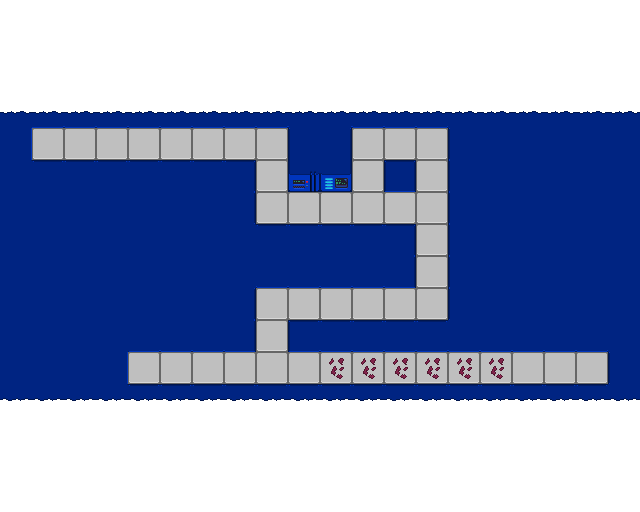
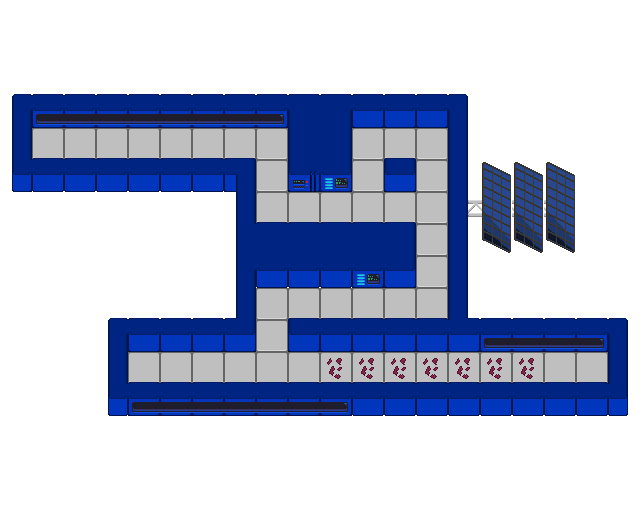
Add parallax background, update tileset

diff --git a/main.js b/main.js
@@ -10,7 +10,10 @@ const IMAGE_FILE_NAMES = {
     alienDown: 'img/alien-down.png',
     alienLeft: 'img/alien-left.png',
     alienRight: 'img/alien-right.png',
-    spaceBackground: 'img/Space_Background_3.png',
+    backgroundStars: 'img/background/stars.png',
+    backgroundNebula: 'img/background/nebula.png',
+    backgroundDust: 'img/background/dust.png',
+    backgroundPlanet: 'img/background/planet.png',
     spriteSheet: 'img/spritesheet.png',
 };
 
@@ -269,7 +272,12 @@ function setup() {
     canvas = new Canvas('canvas');
 
     for (const key in IMAGE_FILE_NAMES) {
-        IMAGES[key] = loadImage(IMAGE_FILE_NAMES[key]);
+        const fileName = IMAGE_FILE_NAMES[key];
+        if (fileName.includes('/background/')) {
+            IMAGES[key] = canvas.loadPattern(fileName);
+        } else {
+            IMAGES[key] = loadImage(fileName);
+        }
     }
 
     level = loadLevel(player, hammer, 0);
@@ -300,7 +308,11 @@ let nextLevelTime = 0;
 let previousState = null;
 let bgOffset = 0;
 
+let backgroundFrame = 0;
+
 function update(elapsedTime) {
+    backgroundFrame += elapsedTime * .1;
+
     // do stuff
     if (!isLoading) {
         movePlayer();
@@ -352,35 +364,43 @@ function update(elapsedTime) {
     }
 }
 
+
 function drawBackground(offset) {
     // blank screen
     canvas.color('white');
     canvas.fillRect(0, 0, canvas.width, canvas.height);
 
-    const bgWidth = IMAGES.spaceBackground.width;
+    canvas.drawTiledImage(IMAGES.backgroundStars, Math.round(offset/10), 0);
 
-    if (offset < -bgWidth) {
-        bgOffset += bgWidth;
-    }
-
-    canvas.drawImage(
-        IMAGES.spaceBackground,
-        Math.round(offset),
+    canvas.opacity(80);
+    canvas.drawTiledImage(
+        IMAGES.backgroundNebula,
+        backgroundFrame/80 + Math.round(offset/5),
         0,
     );
-    canvas.drawImage(
-        IMAGES.spaceBackground,
-        Math.round(offset) + IMAGES.spaceBackground.width,
-        0,
+    canvas.opacity(100);
+
+    canvas.drawTiledImage(
+        IMAGES.backgroundPlanet,
+        backgroundFrame/10 + Math.round(offset/3),
+        -backgroundFrame/100,
     );
+
+    canvas.opacity(90);
+    canvas.drawTiledImage(
+        IMAGES.backgroundDust,
+        500 + backgroundFrame/8 + Math.round(offset/1.5),
+        (backgroundFrame)/300 + 120 * Math.sin(backgroundFrame * 0.0002),
+    );
+    canvas.opacity(100);
 }
 
-function draw(elapsedTime, { level, player, hammer }, opacity = 100) {
+function draw(elapsedTime, { level, player, hammer }, opacity = 100) { 
     const bg = !!level.background;
     if (bg) {
         canvas.drawImage(level.background, 0, 0);
     }
-
+   
     // draw level
     for (let i = 0; i < level.grid.length; i++) {
         for (let j = 0; j < level.grid[i].length; j++) {

diff --git a/visual.js b/visual.js
@@ -84,6 +84,26 @@ function Canvas(id) {
         );
     }
 
+    this.drawTiledImage = function(pattern, dx, dy) {
+        if (!pattern.image) {
+            return;
+        }
+
+        var startX = Math.floor(dx) % pattern.width;
+        var startY = Math.floor(dy) % pattern.height;
+
+        this.save();
+        this.ctx.translate(startX, startY);
+        this.ctx.fillStyle = pattern.image;
+        this.ctx.fillRect(
+            -startX,
+            -startY,
+            this.width,
+            this.height,
+        );
+        this.restore();
+    }
+
     this.drawFromSheet = function(image, sx, sy, sw, sh, dx, dy, dw, dh) {
         this.ctx.drawImage(image, sx, sy, sw, sh, dx, dy, dw, dh);
     }
@@ -109,7 +129,19 @@ function Canvas(id) {
     }
 
     this.clearFilter = function() {
-        this.ctx.filter = null;
+        this.ctx.filter = '';
+    }
+
+    this.loadPattern = function loadPattern(fileName) {
+        const image = loadImage(fileName);
+        const pattern = {};
+        image.onload = () => {
+            const ptn = this.ctx.createPattern(image, 'repeat');
+            pattern.image = ptn;
+            pattern.width = image.width;
+            pattern.height = image.height;
+        }
+        return pattern;
     }
 }
 
@@ -124,7 +156,9 @@ function beginLoop() {
         var thisFrame = Date.now();
         var elapsed = thisFrame - lastFrame;
 
+        // if (Math.random() < 0.99) {
         frameId = window.requestAnimationFrame(loop);
+        // }
 
         for (var u of UPDATES) {
             u(elapsed);

diff --git a/index.html b/index.html
@@ -1,6 +1,10 @@
 <head>
     <title>Alien Thor</title>
     <style>
+        /* html, body {
+            margin: 0;
+            padding: 0;
+        } */
         #canvas, img {
             image-rendering: optimizeSpeed;             /* Older versions of FF          */
             image-rendering: -moz-crisp-edges;          /* FF 6.0+                       */
@@ -13,7 +17,7 @@
     </style>
 </head>
 <body>
-    <div style="max-width: 100%; width: 804px; margin: auto">
+    <div>
         <canvas id="canvas" width="640" height="512"></canvas>
     </div>
     <script type="text/javascript" src="./constants.js"></script>

diff --git a/levelReader.js b/levelReader.js
@@ -50,11 +50,11 @@ function readLevelMap(levelData) {
 }
 
 const LEVELS = [
-    LEVEL_ROUNDnROUND,
-    LEVEL_BATTERY_TEST,
-    LEVEL_X,
+    // LEVEL_ROUNDnROUND,
+    // LEVEL_BATTERY_TEST,
+    // LEVEL_X,
     DUMMY_LEVEL,
-    LEVEL_0,
+    // LEVEL_0,
 ];
 
 function loadLevel(player, hammer, _number) {
